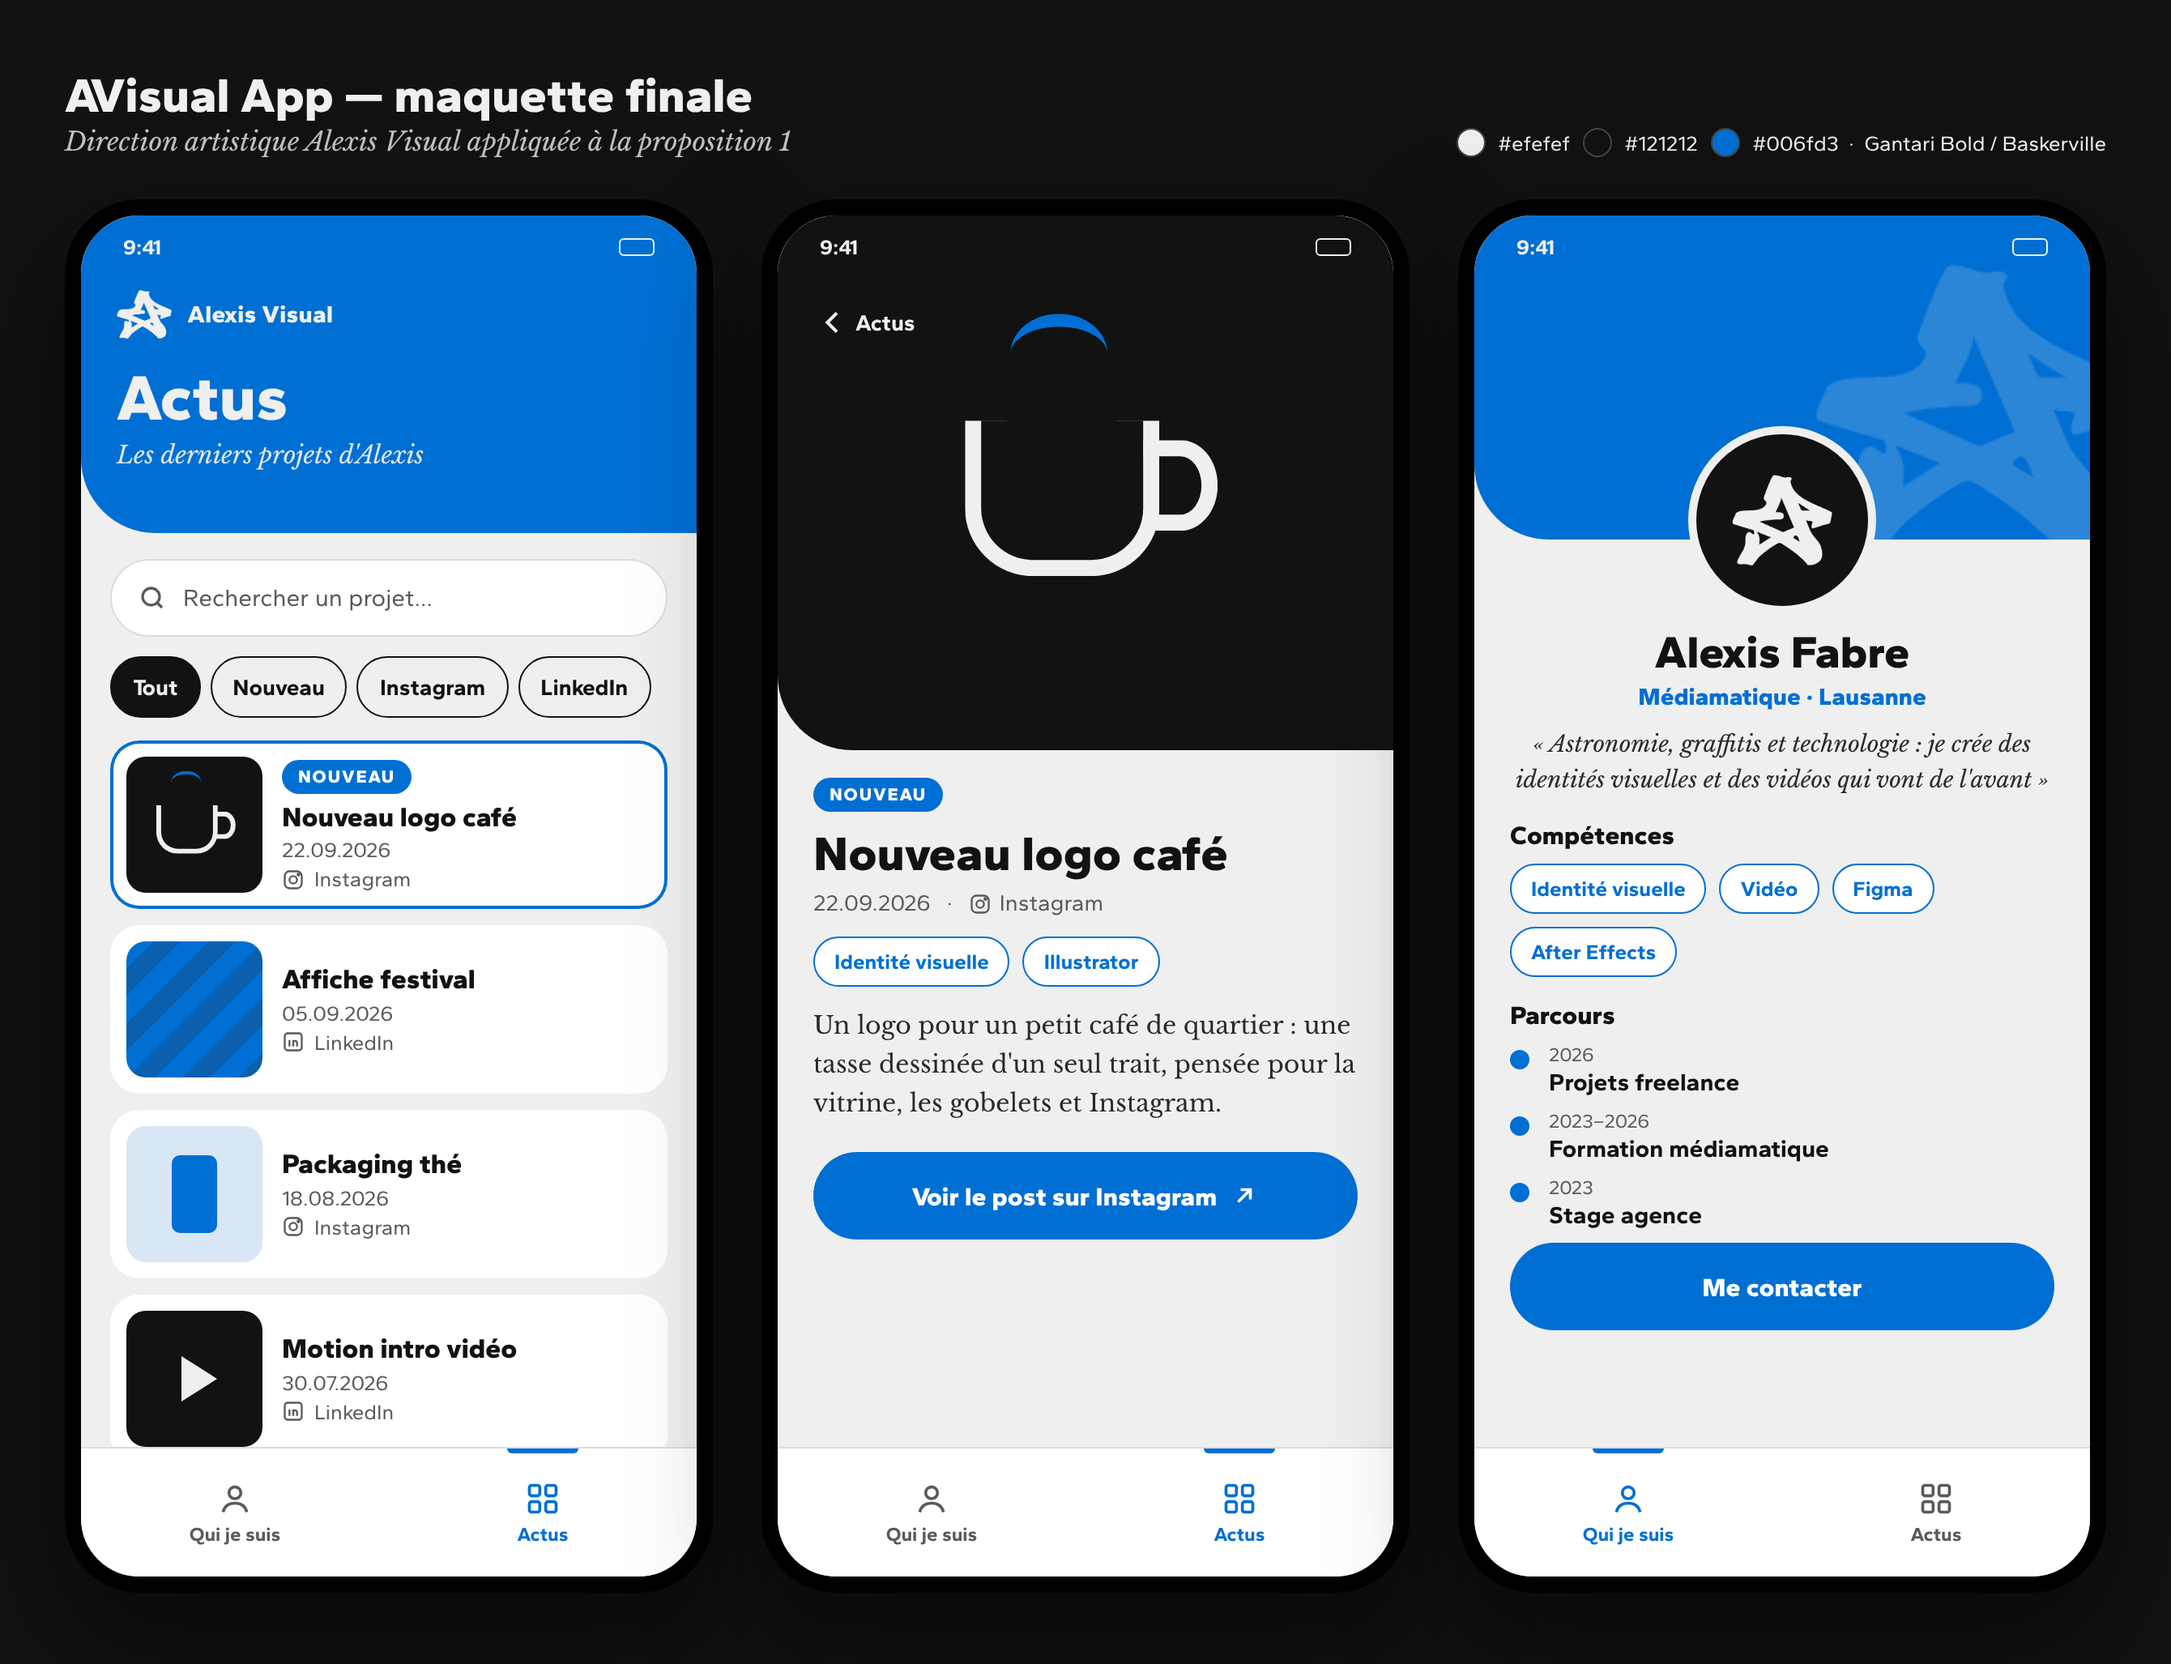
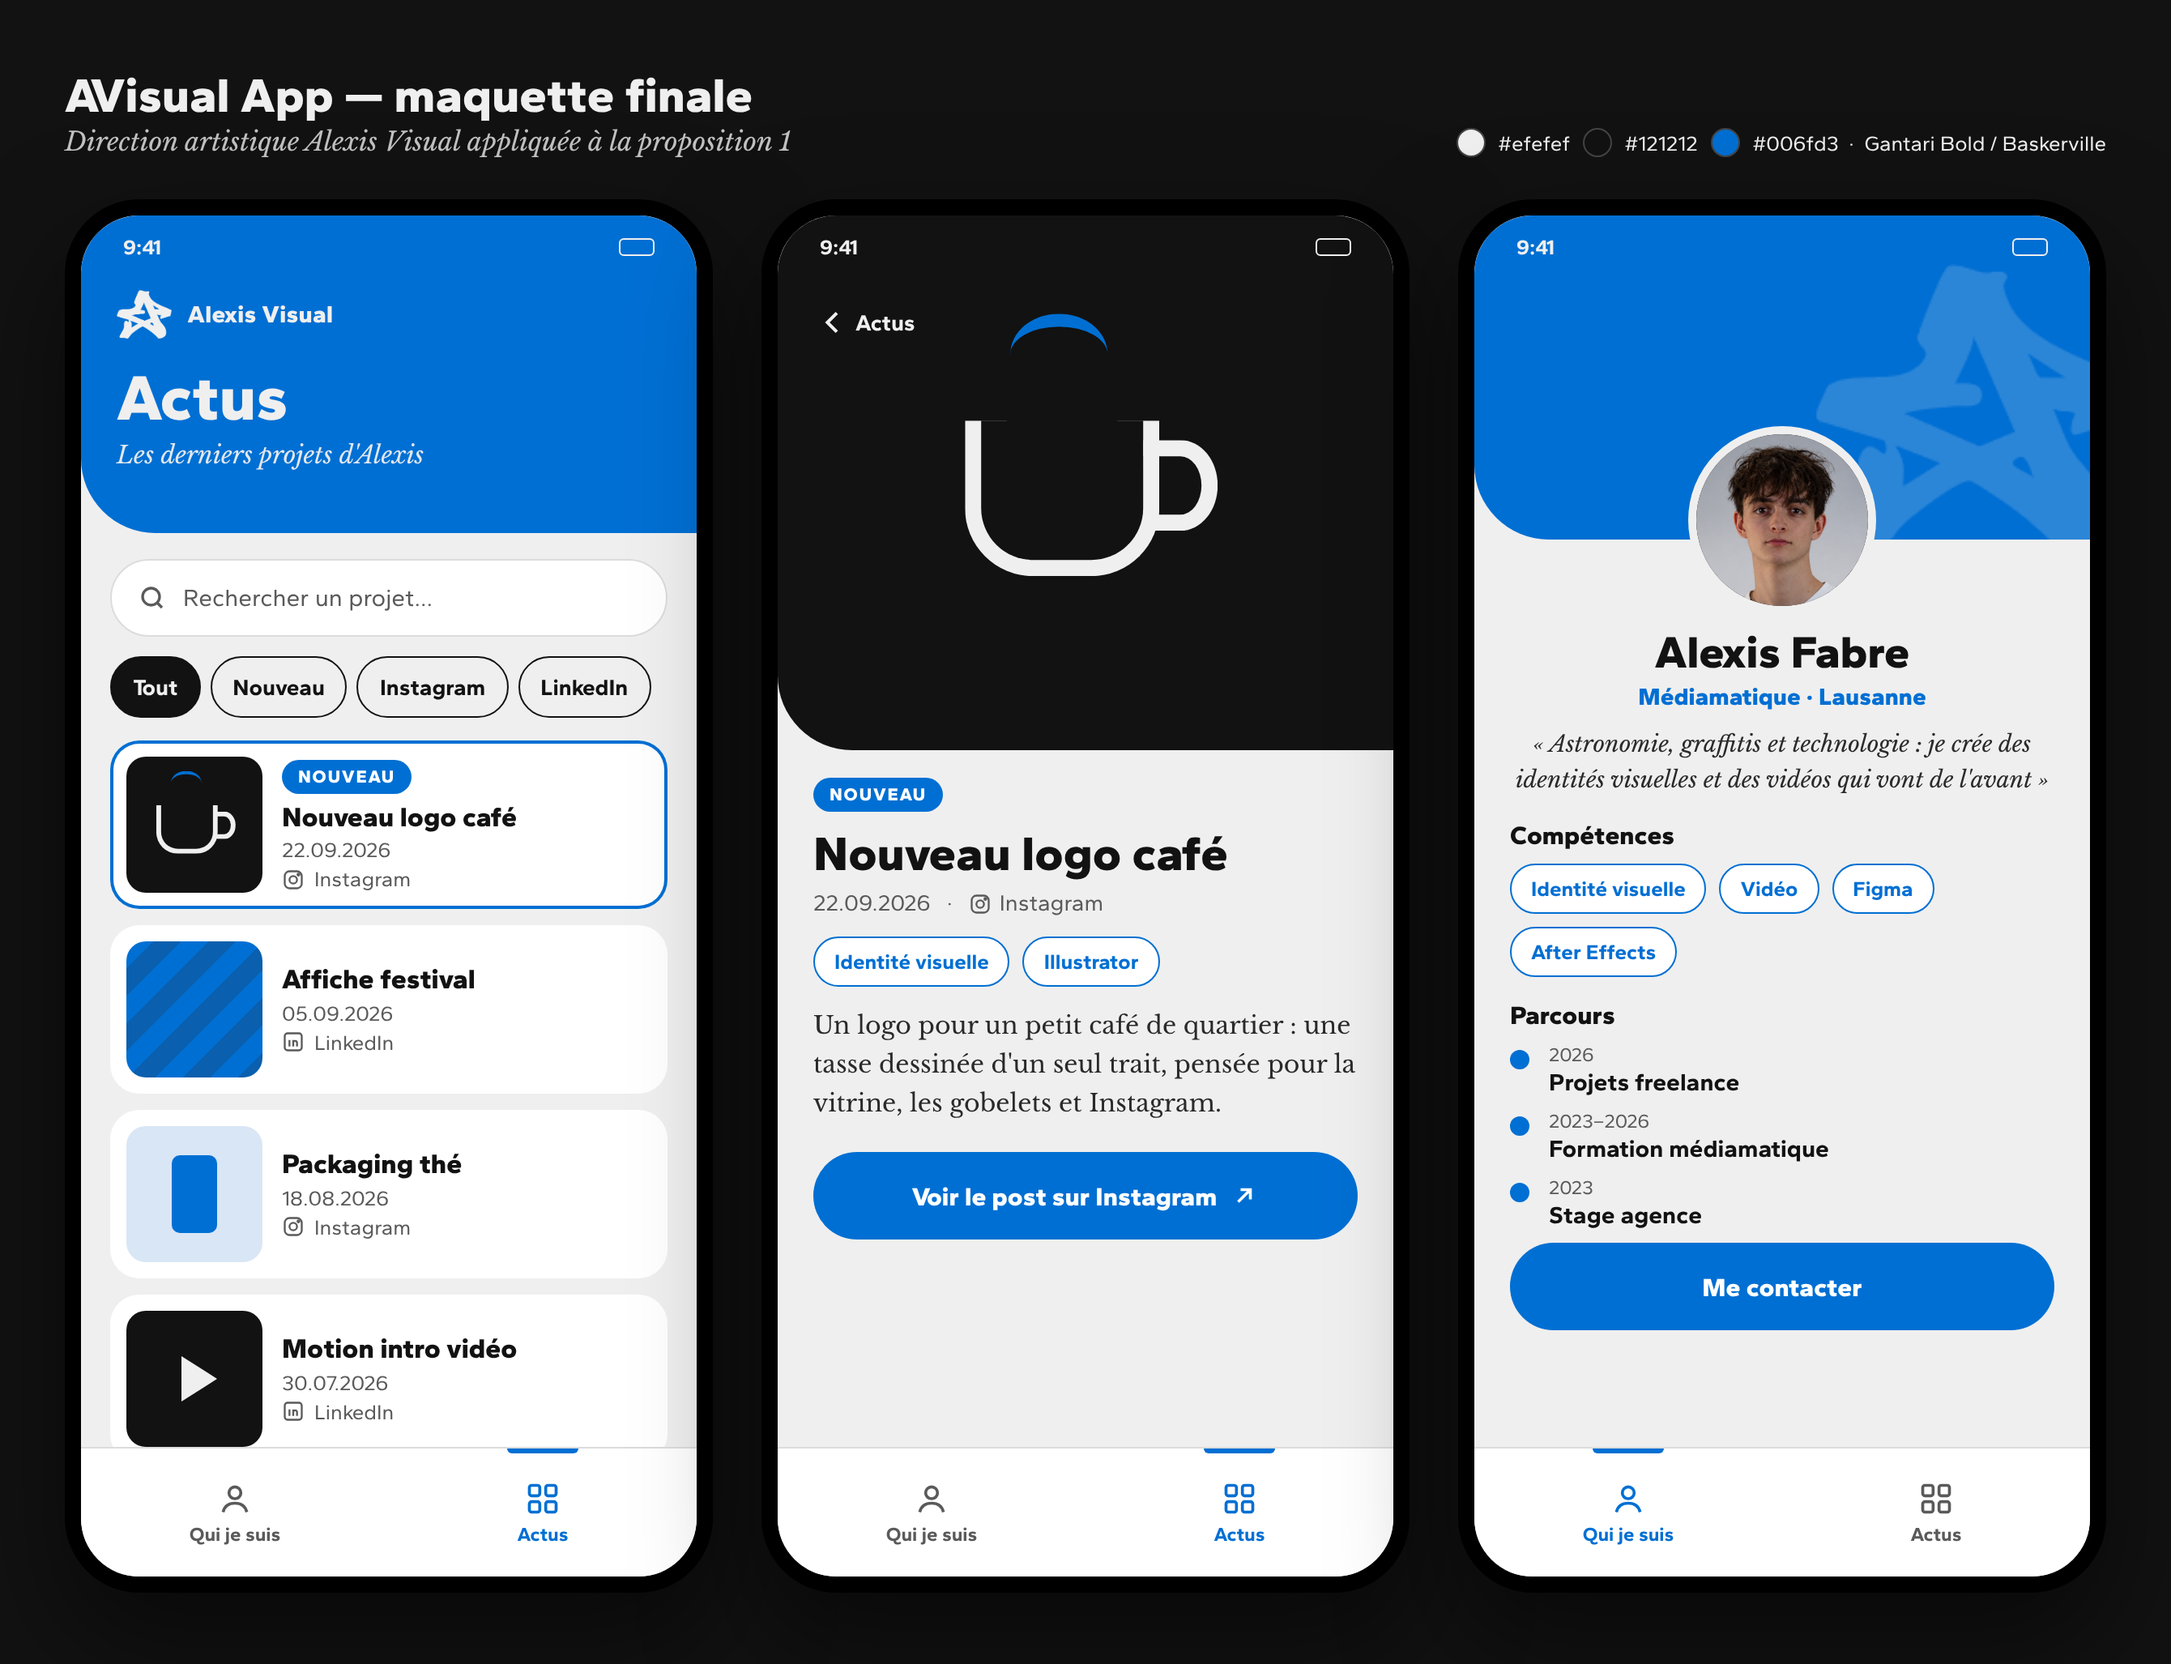
Ajoute ma photo de profil dans la maquette finale (écran Qui je suis)

Changed region(s): [[0.7743, 0.2493, 0.8672, 0.3739]]

diff --git a/design/critique.md b/design/critique.md
@@ -106,6 +106,6 @@ J'applique **ma propre charte graphique « Alexis Visual »** (`design/charte-al
 1. Remplacer l'accent orange de la proposition 1 par mon bleu #006fd3 ; le badge « NOUVEAU » reste le seul élément bleu dans la liste, avec en plus un contour bleu sur la carte.
 2. Mettre l'onglet actif en bleu avec un trait au-dessus (repris de la proposition 2).
 3. Ajouter mon logo dans l'en-tête et en filigrane sur « Qui je suis ».
-4. Remplacer le logo dans le rond de profil par ma vraie photo (avec un `alt`).
+4. ✅ Ma vraie photo est dans le rond de profil (`design/photo-profil.jpg`), avec un `alt` « Photo d'Alexis Fabre ».
 5. Remplacer les miniatures abstraites par les vrais visuels de mes projets.
 6. Ne jamais écrire de petit texte bleu directement sur le fond #efefef (4,3:1).
